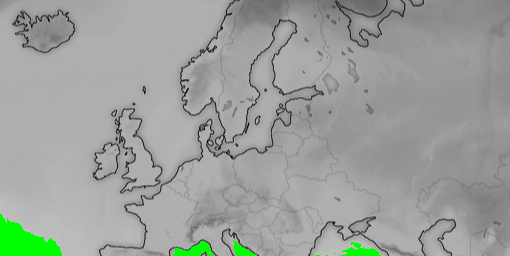
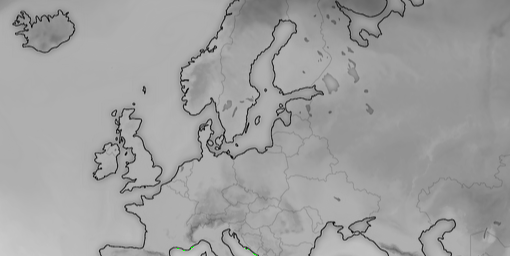
newwhitefeaturedetection

Changed region(s): [[0.0, 0.8438, 0.1176, 1.0], [0.3235, 0.9375, 0.5, 1.0], [0.6765, 0.9375, 0.7647, 1.0]]

diff --git a/6.7/main.py b/6.7/main.py
@@ -8,6 +8,11 @@ Function to determine if the pixel is considered hot
 3. Returns a number from 0-2 indicating the density of the red color.
 '''
 def is_target_feature(r, g, b):
+    # If the pixel is almost white, treat it as cold
+    # This handles cases where white was being misclassified as hot
+    if r >= 100 and g >= 100 and b >= 100:
+        return 0.0
+
     # Normalize values to 0-1 for proportional calculation
     r_norm = r / 255
     g_norm = g / 255
@@ -16,9 +21,9 @@ def is_target_feature(r, g, b):
     # Calculate a weighted score: 
     # Red contributes heavily so its weight more, green and blue contribute negatively indicating cooler colors like yellow/green/blue
     weighted_score = (r_norm * 2.0) - g_norm - b_norm
-    
+
     # Only consider areas that have a positive heat signal
-    return max(0.0, weighted_score) 
+    return max(0.0, weighted_score)
     # Returns a number (0.0 to approximately 2.0)
 '''
 Function to analyze every pixel in an image

diff --git a/6.7/README.md b/6.7/README.md
@@ -22,6 +22,7 @@
 - Overall, the runtime is efficient for the image sizes used
 
 ## Challenges
-- One challenge I faced was creating a feature detection rule that works for every image. I updated the is_target_feature function from a simple boolean approach to a statistical one. Originally, it returned True or False based on strict RGB thresholds, which oversimplified the heat detection and missed subtle variations. To improve accuracy, I changed it to calculate a weighted score that normalizes RGB values and applies a formula emphasizing red while diminishing green and blue, resulting in a continuous value from 0 to 2. This approach allows for more precise density calculations by treating heat as a gradient rather than a binary state
+- One challenge I faced was creating a feature detection rule that works for every image. I updated the is_target_feature function from a simple boolean approach to a statistical one. Originally, it returned True or False based on strict RGB thresholds, which oversimplified the heat detection and missed subtle variations. To improve accuracy, I changed it to calculate a weighted score that normalizes RGB values and applies a formula emphasizing red while diminishing green and blue, resulting in a continuous value from 0 to 2. This approach allows for more precise density calculations by treating heat as a gradient rather than a binary state. A problem acually ended up branching off of that: 
+    - The masked image was detecting the white values as hot values when they were supposed to be cold. I fixed this by adding a threshold that detected for whiter pixels and treated those as blue values instead of red
 - Another challenge involved handling the sorting order. Since selection sort normally finds the minimum value, I had to reverse the comparison so that the algorithm sorted the results from highest to lowest, matching the project requirements.
 - Lastly, comparing floating point numbers in the binary search required using a small margin of error instead of checking for exact equality. Without this, the search function would fail even if the value was extremely close.
